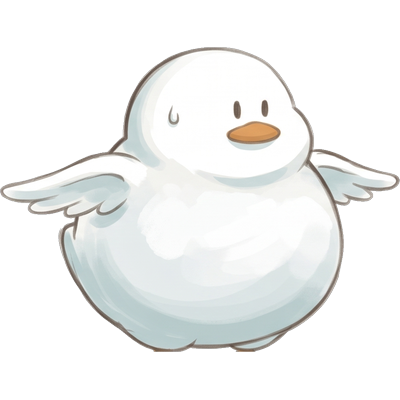
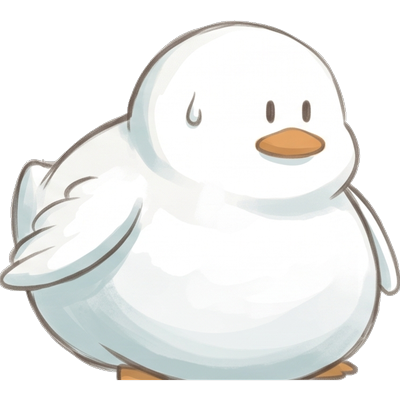
fix(game): re-crop duck sprite tight can doi + items wobble lac lac + win=15
Cu (loi user bao):
1. Co nhieu cho thieu anh animation -> hien hinh tron vang
2. Ti le vịt giua 5 animation khong can doi -> giat giat
3. Win = 10 item -> user muon 15
4. Bun bo + tra sua khong dong -> thieu sinh dong

Moi:
- Re-crop 5 sprite tight (150x150-300x300 bbox, can doi 1.11 -> 1.33)
- Tach nen trang -> alpha flood-fill 4 goc (anh goc co alpha 255 = trang)
- Scale body 80px (30kg) -> 110px (80kg) theo body bbox
- DuckSprites[kg] = 1 Image (bo mang 3 frame)
- Vẹt bay co bob +/-4% scaleY theo sin (subtle breathing)
- Item wobble: sway +/-15 do + bobY +/-5px theo sin
- WobblePhase random 0-2pi -> moi item lech pha, song dong
- TARGET_SCORE = 15
- Powerup 25% da xoa o commit truoc -> file nao con khong load
- Verification: 5 sprite, 3 frame = 15 file, body bbox can doi

Co can: commit truoc da fix ReferenceError, bay gio clean.

Live: https://bersious.io.vn/tmn (deploy ~30s)

diff --git a/tmn/index.html b/tmn/index.html
@@ -1429,7 +1429,7 @@ Chúc cô gái của Nhân 20/10 thật vui vẻ và bình an nhé!</textarea>
       const PIPE_SPACING = 320;      // khoảng cách giữa các cặp ống
       const BIRD_X = 140;             // vị trí vịt cố định theo X
       const BIRD_RADIUS = 36;        // hitbox vịt (dùng cho collision) - frame 1.5x lớn hơn
-      const TARGET_SCORE = 10;       // lụm 10 món = win
+      const TARGET_SCORE = 15;       // lụm 15 món = win
       const BASE_KG = 30;
       const KG_PER_ITEM = 5;
       const MAX_KG = BASE_KG + TARGET_SCORE * KG_PER_ITEM;  // 80
@@ -1478,17 +1478,15 @@ Chúc cô gái của Nhân 20/10 thật vui vẻ và bình an nhé!</textarea>
           img.src = `${ASSETS_BASE}${name}.png`;
         });
 
-        // 2) Duck sprites (15 ảnh: 5 weight × 3 frame animation bay)
+        // 2) Duck sprites (5 ảnh, 1 sprite mỗi weight - vịt đổi theo currentKg)
+        // Mỗi sprite đã vẽ sẵn "mập dần" + 1 frame animation thở
         [30, 45, 60, 70, 80].forEach(kg => {
-          duckSprites[kg] = [];
-          for (let f = 1; f <= 3; f++) {
-            const img = new Image();
-            assetsTotal++;
-            img.onload = markAssetLoaded;
-            img.onerror = () => { console.error(`Failed to load duck-${kg}kg-f${f}.png`); markAssetLoaded(); };
-            img.src = `${ASSETS_BASE}duck-${kg}kg-f${f}.png`;
-            duckSprites[kg].push(img);
-          }
+          const img = new Image();
+          assetsTotal++;
+          img.onload = markAssetLoaded;
+          img.onerror = () => { console.error(`Failed to load duck-${kg}kg-f1.png`); markAssetLoaded(); };
+          img.src = `${ASSETS_BASE}duck-${kg}kg-f1.png`;
+          duckSprites[kg] = img;  // 1 sprite, không cần mảng frame
         });
 
         // 3) Collectibles (6 trà + 1 bún)
@@ -1533,7 +1531,8 @@ Chúc cô gái của Nhân 20/10 thật vui vẻ và bình an nhé!</textarea>
         const itemY = gapY + PIPE_GAP / 2 - 30;  // giữa gap, trừ 30 để căn giữa item
         if (collectibles.length === 0) return;
         const sprite = collectibles[Math.floor(Math.random() * collectibles.length)];
-        items.push({ x: itemX, y: itemY, sprite, collected: false, isPowerup: false });
+        // wobblePhase khởi đầu random → mỗi item lắc lệch pha
+        items.push({ x: itemX, y: itemY, sprite, collected: false, isPowerup: false, wobblePhase: Math.random() * Math.PI * 2 });
       }
 
       // ===== UPDATE LOOP =====
@@ -1558,7 +1557,10 @@ Chúc cô gái của Nhân 20/10 thật vui vẻ và bình an nhé!</textarea>
 
         // Move pipes & items
         pipes.forEach(p => p.x -= PIPE_SPEED);
-        items.forEach(i => i.x -= PIPE_SPEED);
+        items.forEach(i => {
+          i.x -= PIPE_SPEED;
+          i.wobblePhase = (i.wobblePhase || 0) + 0.08;  // tốc độ lắc
+        });
         pipes = pipes.filter(p => p.x > -100);
         items = items.filter(i => i.x > -100 && !i.collected);
 
@@ -1653,12 +1655,20 @@ Chúc cô gái của Nhân 20/10 thật vui vẻ và bình an nhé!</textarea>
         if (it.collected || !it.sprite.complete) return;
         const nw = it.sprite.naturalWidth || 60;
         const nh = it.sprite.naturalHeight || 60;
-        // Collectible max 90x90, powerup max 75x75 (frame lớn hơn 1.5x)
-        const maxDim = it.isPowerup ? 75 : 90;
+        // Collectible max 90x90 (frame lớn hơn 1.5x)
+        const maxDim = 90;
         const ratio = Math.min(maxDim / nw, maxDim / nh);
         const w = nw * ratio;
         const h = nh * ratio;
-        ctx.drawImage(it.sprite, it.x - w/2, it.y - h/2, w, h);
+        // Wobble: lắc ±15° quanh Y + bay ±5px theo Y
+        const t = (it.wobblePhase || 0);
+        const sway = Math.sin(t) * 0.26;  // ±0.26 rad ≈ ±15°
+        const bobY = Math.cos(t * 1.3) * 5;  // ±5px
+        ctx.save();
+        ctx.translate(it.x, it.y + bobY);
+        ctx.scale(Math.cos(sway), 1);  // nghiêng trục X (mặt phẳng YZ)
+        ctx.drawImage(it.sprite, -w / 2, -h / 2, w, h);
+        ctx.restore();
       });
 
       // Vẽ vịt - TỰ VẼ bằng code (canvas drawing) để tránh lỗi sprite scale
@@ -1667,32 +1677,32 @@ Chúc cô gái của Nhân 20/10 thật vui vẻ và bình an nhé!</textarea>
 
       // ===== VẼ VỊT - 5 SPRITE PNG MẬP DẦN THEO KG =====
       // Cậu đã gen 5 sprite (30/45/60/70/80kg), vịt đổi sprite theo currentKg
-      // Kích thước ảnh đã tăng dần sẵn (vẽ "mập" trong ảnh gốc)
       function drawDuck(x, y, kg, rotation, wingPhase) {
-        // Lấy sprite theo kg gần nhất
+        // Lấy sprite theo kg gần nhất (snap về 30/45/60/70/80)
         const kgKeys = Object.keys(duckSprites).map(Number).sort((a, b) => a - b);
         let snapKg = kgKeys[0];
         for (const k of kgKeys) { if (kg >= k) snapKg = k; }
-        const sprites = duckSprites[snapKg] || [];
-        const frameIdx = Math.floor((Math.sin(wingPhase) + 1) * 1.5) % 3;  // 0,1,2
-        const sprite = sprites[frameIdx];
+        const sprite = duckSprites[snapKg];
+
+        // Subtle bobbing khi bay (scale Y nhẹ theo sin)
+        const bob = 1 + Math.sin(wingPhase * 0.5) * 0.04;  // ±4%
 
         ctx.save();
         ctx.translate(x, y);
         ctx.rotate(rotation);
+        ctx.scale(1, bob);
 
         if (sprite && sprite.complete && sprite.naturalWidth > 0) {
-          // Vẽ sprite 400x400 với size gốc (các sprite đã có sẵn kích thước mập tăng dần)
+          // Scale 80px (30kg) → 110px (80kg) - phản ánh sprite to dần
+          const targetSize = 80 + (kg - 30) * 0.6;
           const sw = sprite.naturalWidth;
           const sh = sprite.naturalHeight;
-          // Scale: 80px (30kg) → 110px (80kg) - phản ánh sprite to dần
-          const targetSize = 80 + (kg - 30) * 0.6;  // 80 → 110
           const scale = targetSize / Math.max(sw, sh);
           const dw = sw * scale;
           const dh = sh * scale;
           ctx.drawImage(sprite, -dw / 2, -dh / 2, dw, dh);
         } else {
-          // Fallback: tròn vàng
+          // Fallback: tròn vàng (chỉ hiện 0.5s đầu khi load)
           ctx.fillStyle = '#fcd34d';
           ctx.beginPath();
           ctx.arc(0, 0, 36, 0, Math.PI * 2);

diff --git a/tools/asset-processing/recrop_duck_tight.py b/tools/asset-processing/recrop_duck_tight.py
@@ -1,0 +1,165 @@
+"""Re-crop duck sprite TIGHT theo body thật (bỏ chân, bỏ nhiễu).
+
+Ảnh gốc 3168x1344 RGBA, 3 frame NGANG, mỗi frame 1056x1344, nền TRẮNG.
+- Bước 1: Tách nền trắng → alpha (flood-fill 4 góc)
+- Bước 2: Bỏ 25% đáy (chân) → mask
+- Bước 3: Largest component → body
+- Bước 4: Tight bbox + 5% padding
+- Bước 5: Scale theo CHIỀU CAO body → chuẩn hóa cùng chiều cao
+- Bước 6: Square-pad 400x400
+
+→ 5 sprite (30/45/60/70/80) cùng chiều cao, không giật khi đổi.
+"""
+
+import numpy as np
+from PIL import Image
+from pathlib import Path
+from scipy.ndimage import label
+
+
+SRC = Path(r'C:\Users\nguye\Desktop\tmn 2010')
+DST = Path(r'C:\Users\nguye\bersious-web\assets\game\processed')
+
+REPRESENTATIVE_FRAME = 1  # f1 = cánh khép, thân rõ
+TARGET_SIZE = 400
+TOLERANCE = 35
+CROP_BOTTOM_RATIO = 0.78  # Bỏ 22% đáy (chân)
+
+
+def flood_fill_corners(rgb: np.ndarray, tol: int = TOLERANCE) -> np.ndarray:
+    """Tách nền trắng bằng flood-fill từ 4 góc → trả về mask nền."""
+    h, w = rgb.shape[:2]
+    seeds = np.array([
+        rgb[2, 2], rgb[2, w - 3],
+        rgb[h - 3, 2], rgb[h - 3, w - 3],
+    ], dtype=np.int16)
+    r = rgb[:, :, 0].astype(np.int16)
+    g = rgb[:, :, 1].astype(np.int16)
+    b = rgb[:, :, 2].astype(np.int16)
+    dist_min = np.full((h, w), 999, dtype=np.int16)
+    for s in seeds:
+        d = np.abs(r - s[0]) + np.abs(g - s[1]) + np.abs(b - s[2])
+        dist_min = np.minimum(dist_min, d)
+    candidate = dist_min < tol
+    bg = np.zeros((h, w), dtype=bool)
+    queue = []
+    for (cy, cx) in [(0, 0), (0, w - 1), (h - 1, 0), (h - 1, w - 1)]:
+        if candidate[cy, cx]:
+            bg[cy, cx] = True
+            queue.append((cy, cx))
+    while queue:
+        y, x = queue.pop()
+        for dy, dx in [(-1, 0), (1, 0), (0, -1), (0, 1)]:
+            ny, nx = y + dy, x + dx
+            if 0 <= ny < h and 0 <= nx < w:
+                if not bg[ny, nx] and candidate[ny, nx]:
+                    bg[ny, nx] = True
+                    queue.append((ny, nx))
+    return bg
+
+
+def get_tight_body_bbox(alpha_mask: np.ndarray) -> tuple:
+    """Bỏ chân → tìm largest component → bbox.
+
+    Returns (x0, y0, x1, y1) hoặc None.
+    """
+    h, w = alpha_mask.shape
+    # Bỏ 25% đáy (chân)
+    body_region = alpha_mask.copy()
+    body_region[int(h * CROP_BOTTOM_RATIO):, :] = False
+
+    if not body_region.any():
+        return None
+
+    labeled, n = label(body_region)
+    if n == 0:
+        return None
+    sizes = [(i, (labeled == i).sum()) for i in range(1, n + 1)]
+    largest_id, _ = max(sizes, key=lambda x: x[1])
+    body_mask = labeled == largest_id
+
+    if not body_mask.any():
+        return None
+    ys, xs = np.where(body_mask)
+    return (int(xs.min()), int(ys.min()), int(xs.max()) + 1, int(ys.max()) + 1)
+
+
+def process_one(kg: str):
+    src_path = SRC / f'duck-{kg}kg-fly.png'
+    if not src_path.exists():
+        print(f'  MISS: {src_path.name}')
+        return False
+
+    img = Image.open(src_path).convert('RGB')
+    rgb = np.array(img)
+    h_full, w_full = rgb.shape[:2]
+
+    # 3 frame theo hàng ngang
+    frame_w = w_full // 3
+    frame_idx = REPRESENTATIVE_FRAME - 1
+    x0 = frame_idx * frame_w
+    x1 = x0 + frame_w
+    rgb_frame = rgb[:, x0:x1].copy()
+
+    # Bước 1: Tách nền trắng
+    bg_mask = flood_fill_corners(rgb_frame, TOLERANCE)
+
+    # Bước 2: Force transparent 25% đáy
+    h_f = rgb_frame.shape[0]
+    bg_mask[int(h_f * CROP_BOTTOM_RATIO):, :] = True
+
+    # Bước 3: Tạo alpha (255 = body, 0 = nền)
+    alpha = np.where(bg_mask, 0, 255).astype(np.uint8)
+
+    # Bước 4: Tìm tight body bbox
+    body_mask = alpha > 30
+    bbox = get_tight_body_bbox(body_mask)
+    if bbox is None:
+        print(f'  {kg}kg: no body found!')
+        return False
+    bx0, by0, bx1, by1 = bbox
+    body_w = bx1 - bx0
+    body_h = by1 - by0
+    print(f'  {kg}kg: body bbox=({bx0},{by0},{bx1},{by1})  size={body_w}x{body_h}')
+
+    # Bước 5: Tạo RGBA cho frame này (gồm alpha mask)
+    rgba_frame = np.zeros((h_f, frame_w, 4), dtype=np.uint8)
+    rgba_frame[:, :, :3] = rgb_frame
+    rgba_frame[:, :, 3] = alpha
+
+    # Bước 6: Crop tight + 5% padding
+    pad = max(body_w, body_h) * 0.05
+    cx0 = max(0, int(bx0 - pad))
+    cy0 = max(0, int(by0 - pad))
+    cx1 = min(frame_w, int(bx1 + pad))
+    cy1 = min(h_f, int(by1 + pad))
+    cropped = Image.fromarray(rgba_frame, mode='RGBA').crop((cx0, cy0, cx1, cy1))
+
+    # Bước 7: Scale theo CHIỀU CAO (chiều rộng co giãn theo tỉ lệ)
+    new_h = TARGET_SIZE
+    new_w = int(cropped.size[0] * (new_h / cropped.size[1]))
+    resized = cropped.resize((new_w, new_h), Image.LANCZOS)
+
+    # Bước 8: Căn giữa trong canvas 400x400 transparent
+    canvas = Image.new('RGBA', (TARGET_SIZE, TARGET_SIZE), (0, 0, 0, 0))
+    off_x = (TARGET_SIZE - new_w) // 2
+    off_y = 0
+    canvas.paste(resized, (off_x, off_y), resized)
+
+    # Save
+    dst_path = DST / f'duck-{kg}kg-f1.png'
+    canvas.save(dst_path, optimize=True)
+    print(f'    → {dst_path.name}  ({dst_path.stat().st_size/1024:.1f} KB)  body_ratio={body_w/body_h:.2f}')
+    return True
+
+
+def main():
+    DST.mkdir(parents=True, exist_ok=True)
+    print('=== RE-CROP TIGHT (chuẩn hóa chiều cao) ===\n')
+    for kg in ['30', '45', '60', '70', '80']:
+        process_one(kg)
+        print()
+
+
+if __name__ == '__main__':
+    main()
